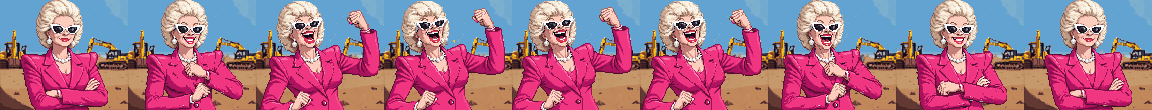
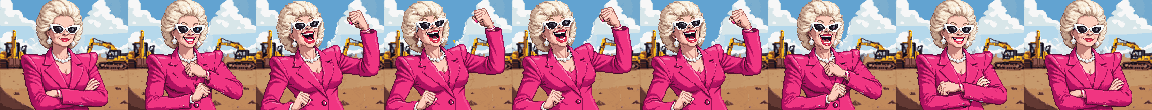
Vivian Sterling: bring back the standard cloudy sky
Her animation frames (with the fixed hair) are laid over the original cloudy
construction-site plate again, matching the other Land Developer looks.
Profile picture rebuilt from the new idle frame; CHAR_ANIM.v bumped so
browsers fetch the new strips.

Changed region(s): [[0.0, 0.0, 1.0, 0.4909]]

diff --git a/public/data.js b/public/data.js
@@ -197,7 +197,7 @@
     },
     // Change `v` whenever any character art is replaced: the new address makes every browser (desktop and phone)
     // fetch the new strips at once instead of showing ones it saved earlier.
-    v: '20261120',
+    v: '20261124',
     // skin = a skin id from SKINS below (null or missing = the character's original look)
     src: (role, anim, skin) => 'assets/characters/' + role + '/' + (skin ? 'skins/' + skin + '/' : '') + anim + '.png?v=' + CHAR_ANIM.v,
   };
